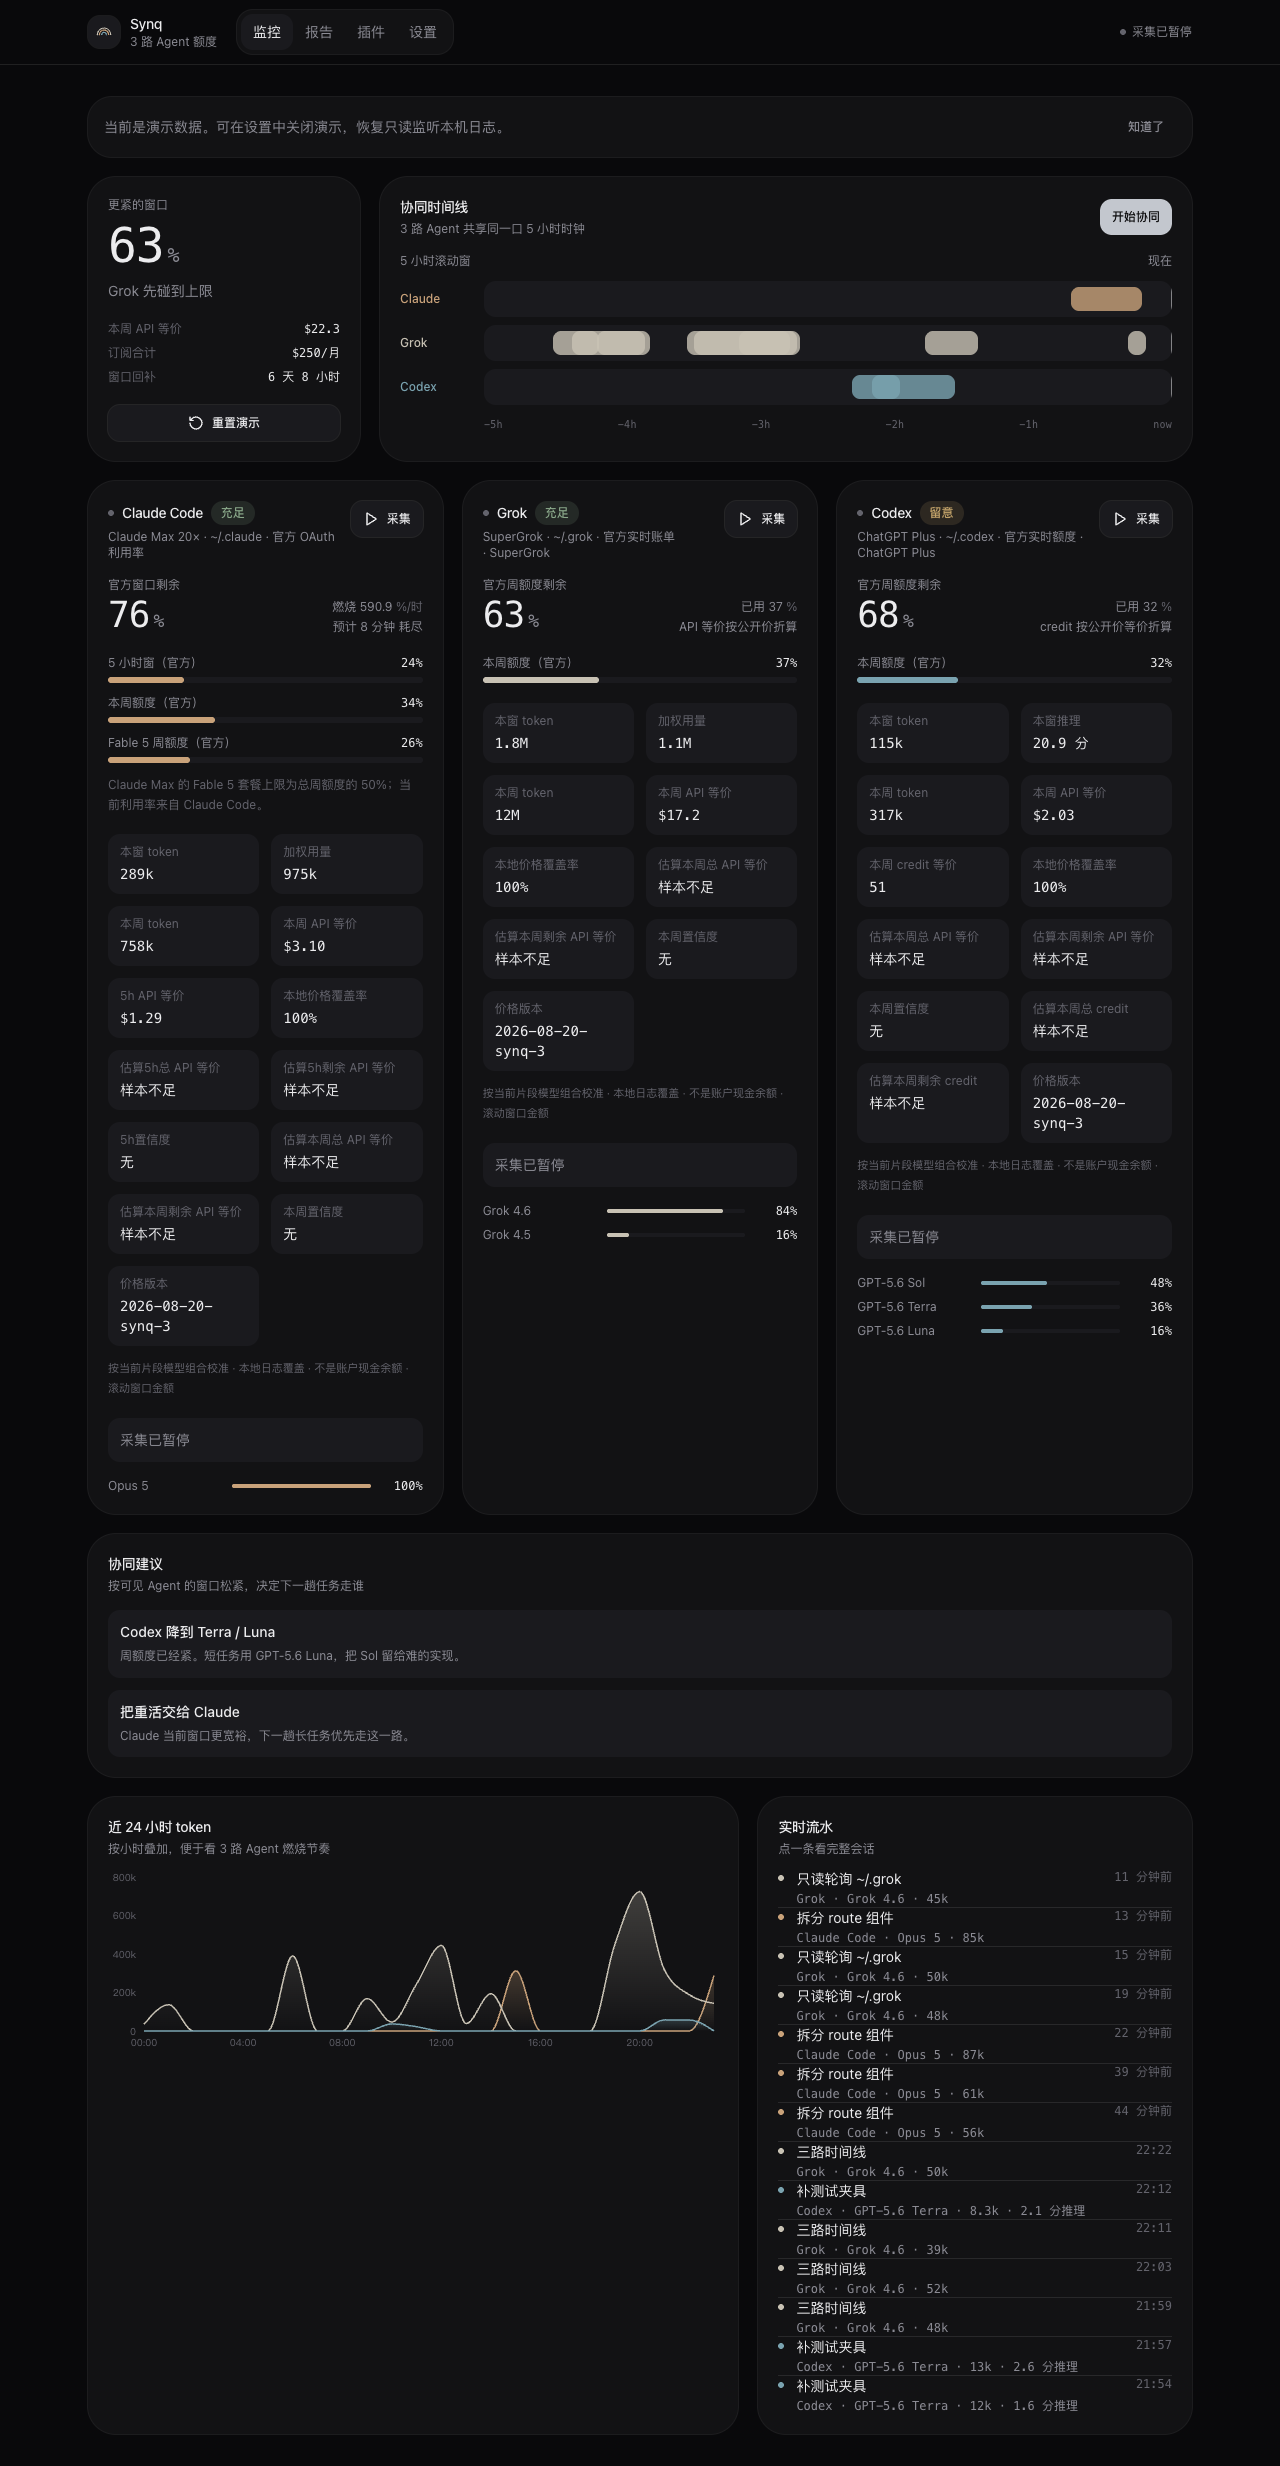
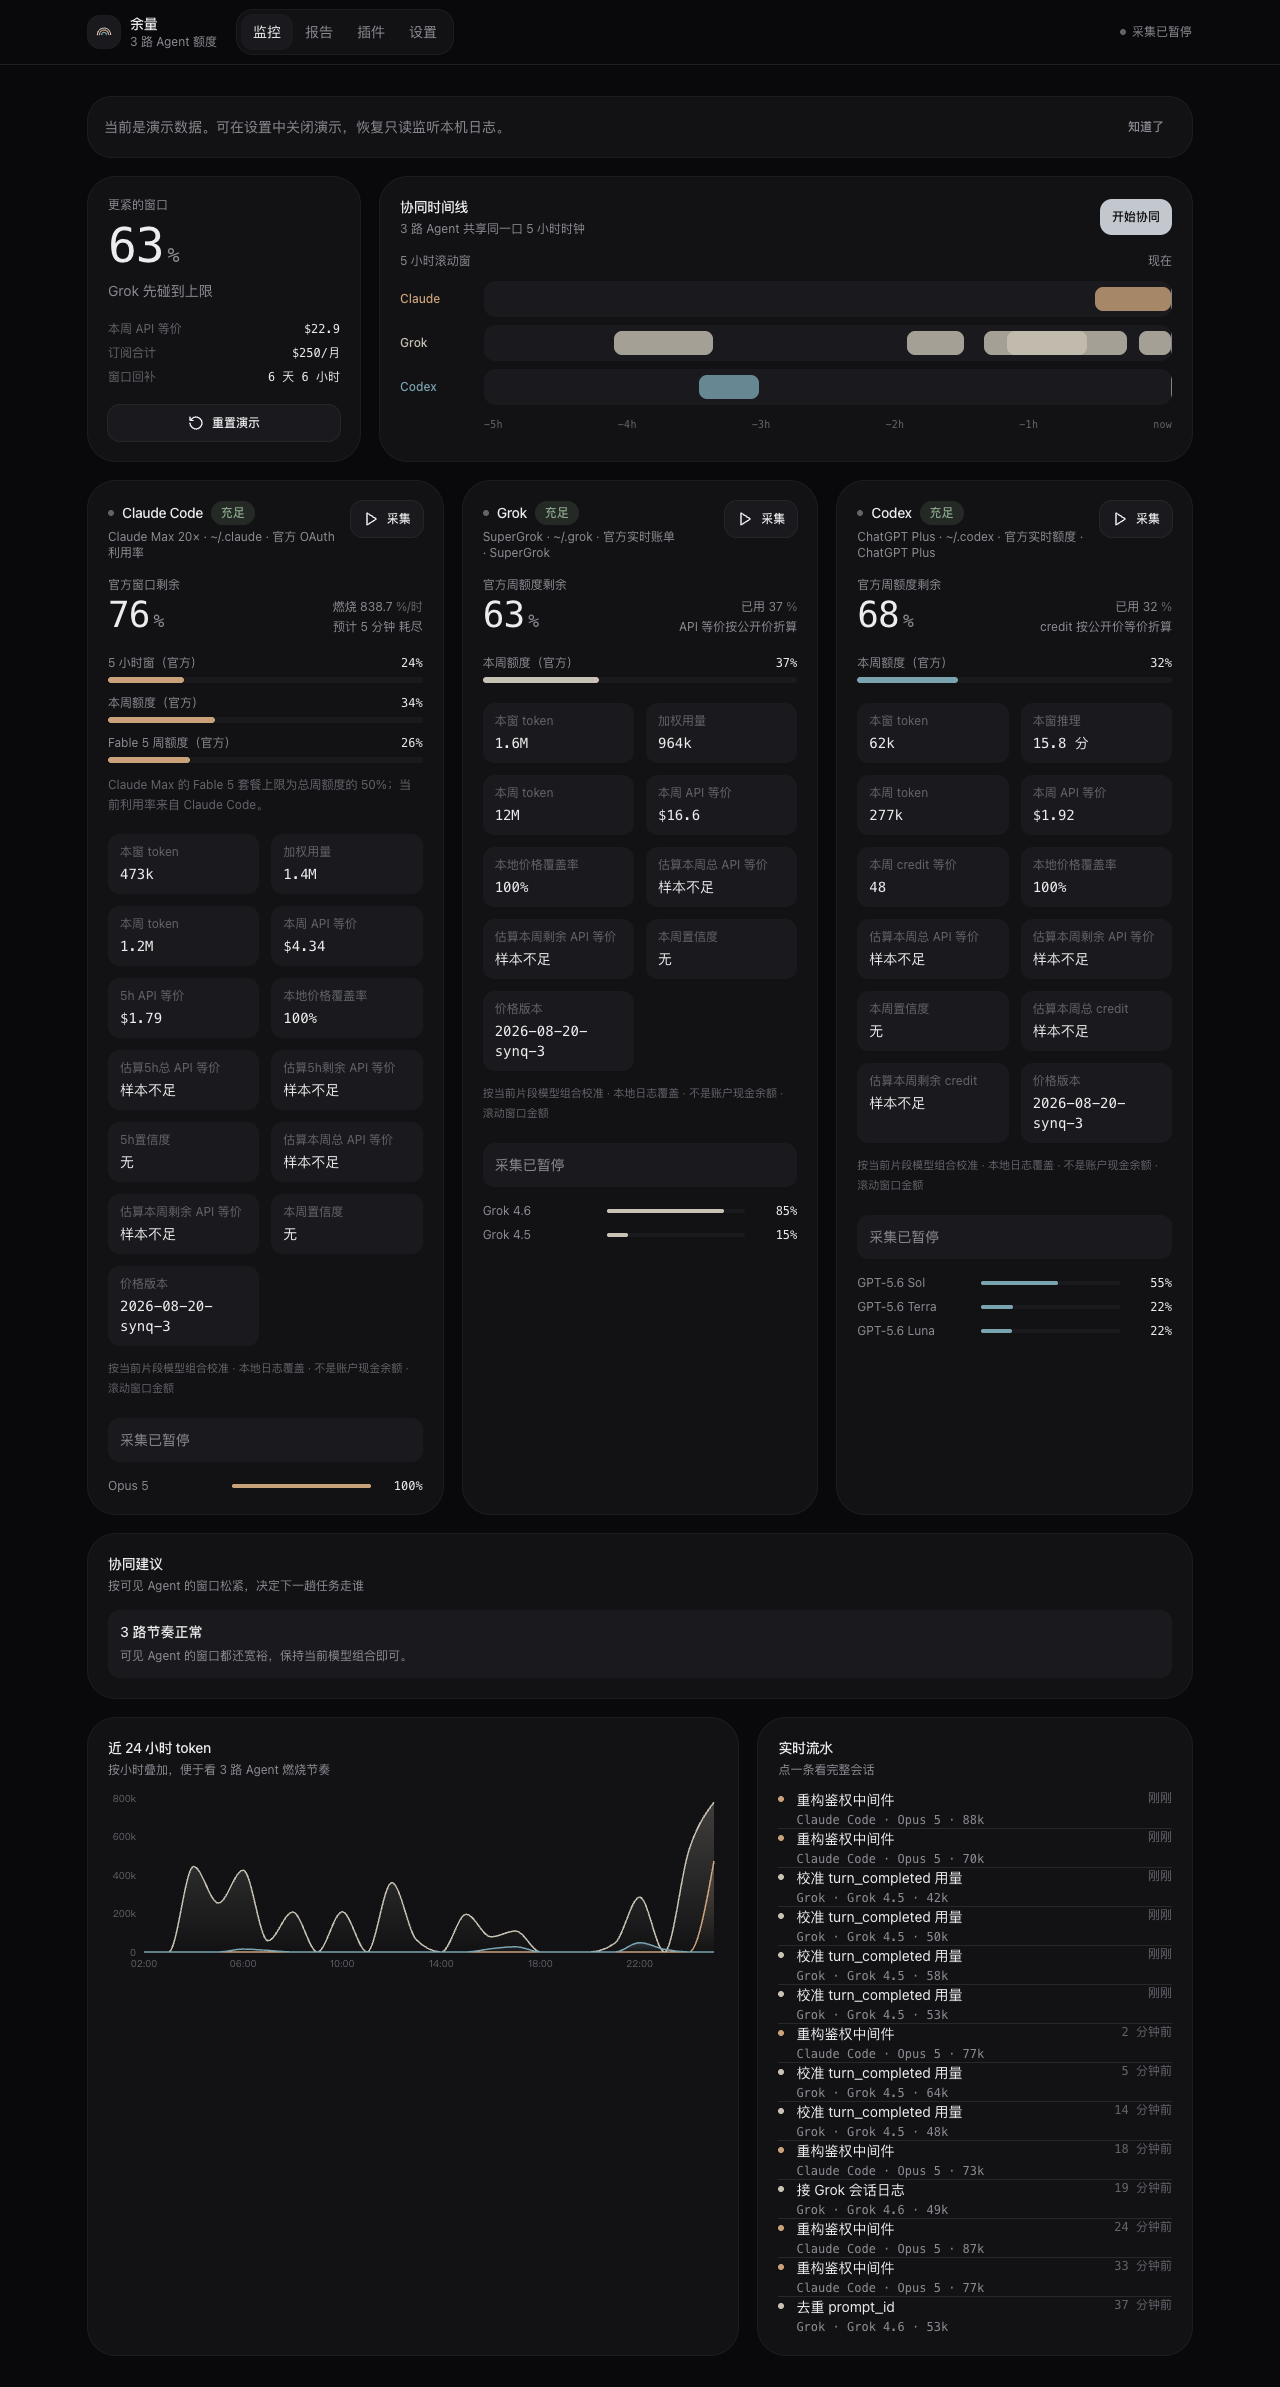
test: lock Balance upgrade compatibility
Verified-by: 284 tests, typecheck, Swift typecheck, public screenshot runtime checks

diff --git a/scripts/macos-ui-smoke.swift b/scripts/macos-ui-smoke.swift
@@ -12,6 +12,51 @@ private func fail(_ message: String) -> Never {
   exit(1)
 }
 
+private struct PersistedSettings: Decodable {
+  let claudePlanId: String
+  let grokPlanId: String
+  let codexPlanId: String
+  let weekBoostPct: Int
+  let alertWindowPct: Int
+  let alertWeekPct: Int
+  let onboardingComplete: Bool
+}
+
+private struct PersistenceSnapshot: Decodable {
+  let version: Int
+  let state: PersistedSettings
+}
+
+private let expectedSettings: PersistenceSnapshot? = {
+  guard let path = ProcessInfo.processInfo.environment["BALANCE_EXPECTED_SETTINGS"] else {
+    return nil
+  }
+  do {
+    return try JSONDecoder().decode(
+      PersistenceSnapshot.self,
+      from: Data(contentsOf: URL(fileURLWithPath: path))
+    )
+  } catch {
+    fail("could not decode Balance persistence snapshot: \(error)")
+  }
+}()
+
+private let planNameById = [
+  "claude-pro": "Claude Pro",
+  "claude-max-5x": "Claude Max 5×",
+  "claude-max-20x": "Claude Max 20×",
+  "claude-api": "Anthropic API",
+  "grok-free": "Grok",
+  "grok-super": "SuperGrok",
+  "grok-heavy": "SuperGrok Heavy",
+  "grok-api": "xAI API",
+  "chatgpt-plus": "ChatGPT Plus",
+  "chatgpt-pro-5x": "ChatGPT Pro 5×",
+  "chatgpt-pro-20x": "ChatGPT Pro 20×",
+  "chatgpt-team": "ChatGPT Business",
+  "openai-api": "OpenAI API",
+]
+
 private let startupErrorMode = CommandLine.arguments.count == 3 &&
   CommandLine.arguments[1] == "--startup-error"
 private let pidArgument = startupErrorMode ? CommandLine.arguments[2] :
@@ -110,7 +155,7 @@ private func button(named target: String) -> AXUIElement? {
   }
 }
 
-private enum InitialAppState {
+private enum InitialAppState: Equatable {
   case onboarding
   case dashboard
 }
@@ -241,7 +286,8 @@ if startupErrorMode {
   exit(0)
 }
 
-switch waitForInitialAppState(timeout: 15) {
+private let observedInitialState = waitForInitialAppState(timeout: 15)
+switch observedInitialState {
 case .onboarding:
   let detectionDeadline = Date().addingTimeInterval(15)
   while Date() < detectionDeadline {
@@ -258,6 +304,29 @@ case .dashboard:
 
 press("设置", timeout: 15)
 waitForExactText("本机监控", timeout: 10)
+
+if let expected = expectedSettings {
+  if expected.state.onboardingComplete,
+     observedInitialState != .dashboard {
+    fail("Balance did not restore the completed onboarding state")
+  }
+
+  for planId in [
+    expected.state.claudePlanId,
+    expected.state.grokPlanId,
+    expected.state.codexPlanId,
+  ] {
+    guard let planName = planNameById[planId] else {
+      fail("unknown persisted plan id: \(planId)")
+    }
+    _ = waitForButton("\(planName)，当前套餐", timeout: 10)
+  }
+
+  waitForExactText("五小时窗 \(expected.state.alertWindowPct)%", timeout: 10)
+  waitForExactText("本周额度 \(expected.state.alertWeekPct)%", timeout: 10)
+  waitForExactText("\(expected.state.weekBoostPct)%", timeout: 10)
+  FileHandle.standardError.write(Data("native-persistence-ok\n".utf8))
+}
 
 let finalWindow = firstWindow() ?? initialWindow
 printWindowEvidence(finalWindow, prefix: "native-ui-ok")

diff --git a/src/components/synq/plans-panel.tsx b/src/components/synq/plans-panel.tsx
@@ -26,6 +26,7 @@ function PlanList({
             <button
               key={p.id}
               type="button"
+              aria-label={active ? `${p.name}，当前套餐` : p.name}
               onClick={() => onSelect(p.id)}
               className={cn(
                 "rounded-xl p-4 text-left shadow-[var(--shadow-border)] transition-[box-shadow,background-color] duration-150",

diff --git a/README.md b/README.md
@@ -52,6 +52,10 @@ npm run desktop:verify
 
 This exercises environment and auth isolation, the real app UI and normal close path, sidecar cleanup after a parent `SIGKILL`, the occupied-port `startup-error` path, and the packaged DMG with `hdiutil verify`.
 
+## 从 Synq 升级
+
+Balance 是 Synq 的原地品牌升级。桌面应用继续使用 bundle identifier `com.synq.desktop`、固定 origin `127.0.0.1:4780` 和持久化 key `synq-quota-v8`；官方成功快照仍位于 `~/Library/Application Support/Synq/official-quota.json`。因此覆盖安装后，既有套餐、阈值、采样设置和最后一次官方额度快照会继续可用。
+
 ## 快速开始
 
 要求 Node.js 22 或更高版本。
